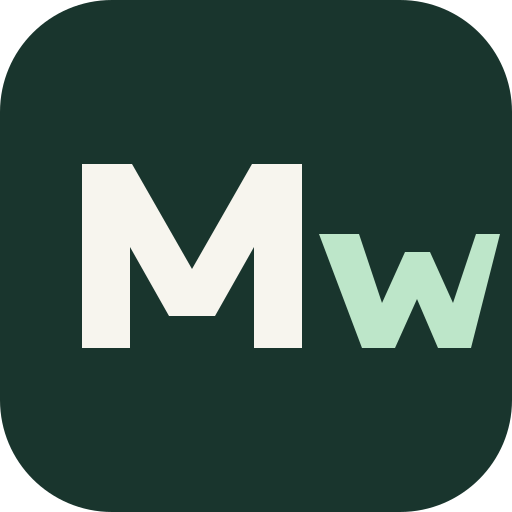
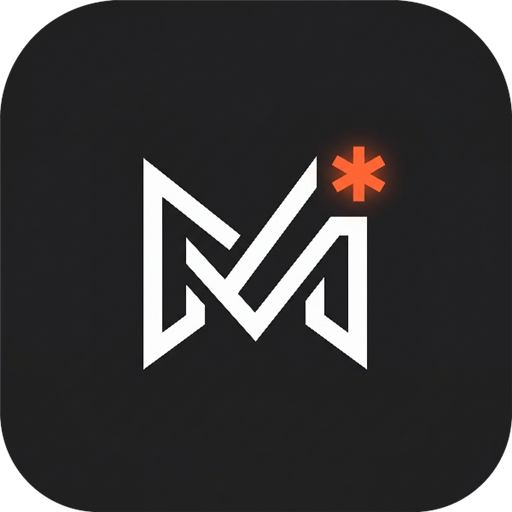
feat: Monochrome pop theme (dark + light), MarkForge rebrand, v1.0.0
- token-based theme: grayscale canvas/panel/hover + rationed yellow accent
- light variant derived; links/badges use contrast-corrected accent tones
- folders default collapsed; folder icons neutral #8a8a86; flat surfaces
- renamed to MarkForge across layout/PWA/electron; icon.png resized to all targets
- version 1.0.0 + XYKS signature in sidebar footer
- fixed mojibake across sources; .vscode cSpell ignores yaml

diff --git a/app/globals.css b/app/globals.css
@@ -51,96 +51,112 @@
   --radius-xl: calc(var(--radius) * 1.35);
 }
 
+/*
+  Theme: "Monochrome pop"
+
+  Neutral grayscale with exactly one loud yellow accent. The yellow is
+  rationed - interactive elements, links, CTAs only - so that meeting it always
+  means something. Flat surfaces throughout: depth comes from one shade steps
+  between canvas and panels, never from shadows or glows.
+
+  Structure: the shadcn mappings below are declared once and read raw tokens;
+  only the raw values differ between light and dark. Dark values are the ones
+  the design brief specified verbatim; light is its derived sibling.
+*/
+:root {
+  /* --- shadcn mapping (theme-independent; reads whichever raw tokens are
+         in scope - light here, dark once .dark lands on <html>) ---------- */
+  --background: var(--bg-canvas);
+  --foreground: var(--text-primary);
+  --card: var(--bg-panel);
+  --card-foreground: var(--foreground);
+  --popover: var(--bg-panel);
+  --popover-foreground: var(--foreground);
+  --primary: var(--accent-fill);
+  --primary-foreground: var(--accent-on);
+  --secondary: var(--bg-hover);
+  --secondary-foreground: var(--text-primary);
+  --muted: var(--bg-hover);
+  --muted-foreground: var(--text-secondary);
+  --accent: var(--bg-hover);
+  --accent-foreground: var(--text-primary);
+  --destructive: oklch(.66 .19 25);
+  --border: var(--border-default);
+  --input: var(--border-default);
+  --ring: var(--accent-fill);
+  --radius: .625rem;
+  --sidebar: var(--bg-panel);
+  --sidebar-foreground: var(--foreground);
+  --sidebar-primary: var(--primary);
+  --sidebar-primary-foreground: var(--accent-on);
+  --sidebar-accent: var(--bg-hover);
+  --sidebar-accent-foreground: var(--foreground);
+  --sidebar-border: var(--border-default);
+  --sidebar-ring: var(--accent-fill);
+}
+
+/* --- light -------------------------------------------------------------- */
 :root {
   color-scheme: light;
-  --background: oklch(.975 .006 95);
-  --foreground: oklch(.225 .012 75);
-  --card: oklch(.995 .003 95);
-  --card-foreground: var(--foreground);
-  --popover: oklch(.995 .003 95);
-  --popover-foreground: var(--foreground);
-  --primary: oklch(.44 .09 154);
-  --primary-foreground: oklch(.99 .005 95);
-  --secondary: oklch(.935 .008 95);
-  --secondary-foreground: oklch(.3 .014 75);
-  --muted: oklch(.94 .006 95);
-  --muted-foreground: oklch(.51 .018 75);
-  --accent: oklch(.91 .025 145);
-  --accent-foreground: oklch(.27 .05 150);
-  --destructive: oklch(.58 .2 28);
-  --border: oklch(.885 .009 90);
-  --input: oklch(.885 .009 90);
-  --ring: oklch(.55 .09 154);
-  --radius: .625rem;
-  --sidebar: oklch(.955 .008 92);
-  --sidebar-foreground: var(--foreground);
-  --sidebar-primary: var(--primary);
-  --sidebar-primary-foreground: var(--primary-foreground);
-  --sidebar-accent: oklch(.91 .016 95);
-  --sidebar-accent-foreground: var(--foreground);
-  --sidebar-border: var(--border);
-  --sidebar-ring: var(--ring);
+  --bg-canvas: #fafaf8;
+  --bg-panel: #f1f1ee;
+  --bg-hover: #e7e7e3;
+  --border-default: #dcdcd7;
+  --text-primary: #1d1d1a;
+  --text-secondary: #54544e;
+  --text-muted: #84847c;
+  --text-disabled: #c4c4bc;
+  /* The same yellow reads too pale against white as text, so text-bearing
+     accents deepen one step while fills stay true to the brief. */
+  --accent-fill: #f0d84a;
+  --accent-on: #1d1d1a;
+  --accent-link: #857400;
+  --accent-link-underline: #b3a12c;
+  --accent-bg-muted: #f3ecb8;
+  --accent-badge-text: #7a6900;
+  --icon-neutral: #8a8a86;
 }
 
-.dark {
+/* --- dark (brief values, verbatim) --------------------------------------- */
+.dark,
+@media-prefers-dark {
   color-scheme: dark;
-  --background: oklch(.18 .008 110);
-  --foreground: oklch(.92 .008 95);
-  --card: oklch(.205 .009 110);
-  --card-foreground: var(--foreground);
-  --popover: oklch(.23 .01 110);
-  --popover-foreground: var(--foreground);
-  --primary: oklch(.68 .1 150);
-  --primary-foreground: oklch(.17 .02 150);
-  --secondary: oklch(.26 .01 110);
-  --secondary-foreground: var(--foreground);
-  --muted: oklch(.25 .009 110);
-  --muted-foreground: oklch(.67 .012 95);
-  --accent: oklch(.3 .035 150);
-  --accent-foreground: oklch(.9 .04 145);
-  --destructive: oklch(.66 .19 25);
-  --border: oklch(.32 .01 110);
-  --input: oklch(.32 .01 110);
-  --ring: oklch(.62 .09 150);
-  --sidebar: oklch(.195 .009 110);
-  --sidebar-foreground: var(--foreground);
-  --sidebar-primary: var(--primary);
-  --sidebar-primary-foreground: var(--primary-foreground);
-  --sidebar-accent: oklch(.26 .012 110);
-  --sidebar-accent-foreground: var(--foreground);
-  --sidebar-border: var(--border);
-  --sidebar-ring: var(--ring);
+  --bg-canvas: #111111;
+  --bg-panel: #1a1a1a;
+  --bg-hover: #232323;
+  --border-default: #2a2a2a;
+  --text-primary: #f2f2f0;
+  --text-secondary: #b8b8b4;
+  --text-muted: #7a7a76;
+  --text-disabled: #4a4a47;
+  --accent-fill: #f0d84a;
+  --accent-on: #111111;
+  --accent-link: #f0d84a;
+  --accent-link-underline: #d4be3a;
+  --accent-bg-muted: #3a3520;
+  --accent-badge-text: #f0d84a;
+  --icon-neutral: #8a8a86;
 }
 
+/* OS-level dark preference applies even before hydration adds the class. */
 @media (prefers-color-scheme: dark) {
   :root:not(.light) {
     color-scheme: dark;
-    --background: oklch(.18 .008 110);
-    --foreground: oklch(.92 .008 95);
-    --card: oklch(.205 .009 110);
-    --card-foreground: var(--foreground);
-    --popover: oklch(.23 .01 110);
-    --popover-foreground: var(--foreground);
-    --primary: oklch(.68 .1 150);
-    --primary-foreground: oklch(.17 .02 150);
-    --secondary: oklch(.26 .01 110);
-    --secondary-foreground: var(--foreground);
-    --muted: oklch(.25 .009 110);
-    --muted-foreground: oklch(.67 .012 95);
-    --accent: oklch(.3 .035 150);
-    --accent-foreground: oklch(.9 .04 145);
-    --destructive: oklch(.66 .19 25);
-    --border: oklch(.32 .01 110);
-    --input: oklch(.32 .01 110);
-    --ring: oklch(.62 .09 150);
-    --sidebar: oklch(.195 .009 110);
-    --sidebar-foreground: var(--foreground);
-    --sidebar-primary: var(--primary);
-    --sidebar-primary-foreground: var(--primary-foreground);
-    --sidebar-accent: oklch(.26 .012 110);
-    --sidebar-accent-foreground: var(--foreground);
-    --sidebar-border: var(--border);
-    --sidebar-ring: var(--ring);
+    --bg-canvas: #111111;
+    --bg-panel: #1a1a1a;
+    --bg-hover: #232323;
+    --border-default: #2a2a2a;
+    --text-primary: #f2f2f0;
+    --text-secondary: #b8b8b4;
+    --text-muted: #7a7a76;
+    --text-disabled: #4a4a47;
+    --accent-fill: #f0d84a;
+    --accent-on: #111111;
+    --accent-link: #f0d84a;
+    --accent-link-underline: #d4be3a;
+    --accent-bg-muted: #3a3520;
+    --accent-badge-text: #f0d84a;
+    --icon-neutral: #8a8a86;
   }
 }
 
@@ -202,6 +218,27 @@
 .prose :where(blockquote p:first-of-type)::before,
 .prose :where(blockquote p:last-of-type)::after { content: none; }
 
+/*
+  Links are the rationed yellow: accent fill, hover-tone underline. Applies to
+  rendered markdown and to the editor's live wikilinks alike.
+*/
+.prose :where(a) {
+  color: var(--accent-link);
+  text-decoration-color: var(--accent-link-underline);
+}
+.cm-wikilink {
+  color: var(--accent-link);
+  cursor: pointer;
+  text-decoration: underline;
+  text-decoration-color: var(--accent-link-underline);
+}
+
+/* Badges and tags: muted yellow field, accent text - loud but contained. */
+.mf-badge {
+  background: var(--accent-bg-muted);
+  color: var(--accent-badge-text);
+}
+
 .editor-content kbd { @apply rounded border bg-muted px-1.5 py-0.5 font-mono text-xs; }
 .context-link { @apply rounded-md px-2 py-1.5 text-xs text-muted-foreground hover:bg-muted hover:text-foreground; }
 .context-link.active { @apply bg-muted font-medium text-foreground; }
@@ -220,8 +257,7 @@ html, body, main, aside, article, header {
   overflow: hidden;
   border: 1px solid var(--border);
   border-radius: 999px;
-  background: var(--accent);
-  box-shadow: inset 0 1px 2px color-mix(in oklch, var(--foreground) 8%, transparent), 0 1px 2px color-mix(in oklch, var(--foreground) 8%, transparent);
+  background: var(--bg-hover);
   transition: background-color 220ms cubic-bezier(.2,.8,.2,1), border-color 220ms cubic-bezier(.2,.8,.2,1), transform 140ms ease-out;
   -webkit-tap-highlight-color: transparent;
 }
@@ -238,9 +274,8 @@ html, body, main, aside, article, header {
   border-radius: 50%;
   color: oklch(.42 .16 65);
   background: oklch(.9 .13 85);
-  box-shadow: 0 1px 5px oklch(.65 .13 75 / .35);
   transform: translateX(0) rotate(0deg);
-  transition: transform 280ms cubic-bezier(.34,1.32,.64,1), color 200ms ease-out, background-color 200ms ease-out, box-shadow 200ms ease-out;
+  transition: transform 280ms cubic-bezier(.34,1.32,.64,1), color 200ms ease-out, background-color 200ms ease-out;
 }
 .theme-switcher__sun, .theme-switcher__moon { position: absolute; width: .8rem; height: .8rem; transition: opacity 160ms ease-out, transform 240ms cubic-bezier(.2,.8,.2,1); }
 .theme-switcher__sun { opacity: 1; transform: rotate(0deg) scale(1); }
@@ -251,7 +286,7 @@ html, body, main, aside, article, header {
 .theme-switcher__stars i:nth-child(2) { left: .95rem; top: 1rem; opacity: .55; }
 .theme-switcher__stars i:nth-child(3) { left: 1.35rem; top: .38rem; opacity: .75; }
 .theme-switcher.is-night { background: var(--secondary); }
-.theme-switcher.is-night .theme-switcher__orb { color: oklch(.35 .04 260); background: oklch(.86 .03 260); box-shadow: 0 1px 6px oklch(.75 .08 260 / .22); transform: translateX(1.5rem) rotate(360deg); }
+.theme-switcher.is-night .theme-switcher__orb { color: oklch(.35 .04 260); background: oklch(.86 .03 260); transform: translateX(1.5rem) rotate(360deg); }
 .theme-switcher.is-night .theme-switcher__sun { opacity: 0; transform: rotate(90deg) scale(.4); }
 .theme-switcher.is-night .theme-switcher__moon { opacity: 1; transform: rotate(0deg) scale(1); }
 .theme-switcher.is-night .theme-switcher__stars { opacity: 1; transform: translateY(0); }

diff --git a/components/workspace/sidebar.tsx b/components/workspace/sidebar.tsx
@@ -20,6 +20,7 @@ import {
 } from 'lucide-react'
 import { toast } from 'sonner'
 import { FileTreeNode } from '@/lib/file-store'
+import { APP_SIGNATURE, APP_VERSION } from '@/lib/version'
 import type { OpenIntent } from '@/lib/tabs'
 import { cn } from '@/lib/utils'
 import { openHandlers } from './tab-gestures'
@@ -195,7 +196,7 @@ export function Sidebar({
   const toggleFolder = (path: string) => {
     setExpandedFolders((prev) => ({
       ...prev,
-      [path]: prev[path] === undefined ? false : !prev[path],
+      [path]: !prev[path],
     }))
   }
 
@@ -257,7 +258,7 @@ export function Sidebar({
   */
   const renderTree = (nodes: FileTreeNode[]) => {
     return nodes.map((node) => {
-      const isExpanded = expandedFolders[node.path] !== false // Default open
+      const isExpanded = expandedFolders[node.path] === true // Default collapsed
 
       if (node.isDir) {
         return (
@@ -288,7 +289,7 @@ export function Sidebar({
                     <ChevronRight className="size-3.5" />
                   )}
                 </span>
-                <span className={cn(ICON_BOX, 'text-amber-500/80')}>
+                <span className={cn(ICON_BOX, 'text-(--icon-neutral)')}>
                   {isExpanded ? <FolderOpen className="size-4" /> : <Folder className="size-4" />}
                 </span>
                 <span className="truncate">{node.name}</span>
@@ -480,7 +481,7 @@ export function Sidebar({
           <span className="flex size-7 shrink-0 items-center justify-center rounded-md bg-primary text-xs font-bold text-primary-foreground">
             M
           </span>
-          <span className="truncate text-sm font-semibold tracking-tight">Markdown Workspace</span>
+          <span className="truncate text-sm font-semibold tracking-tight">MarkForge</span>
         </div>
       </header>
 
@@ -591,6 +592,15 @@ export function Sidebar({
           <LogOut className="size-3.5 shrink-0" />
           <span>Sign out</span>
         </button>
+        <div
+          className="flex items-center justify-between px-2 pt-1 text-[10px] tracking-wide text-(--text-disabled)"
+          title="MarkForge"
+        >
+          <span>
+            MarkForge v{APP_VERSION}
+          </span>
+          <span>Ã‚Â© {APP_SIGNATURE}</span>
+        </div>
       </div>
       </aside>
     </>

diff --git a/app/layout.tsx b/app/layout.tsx
@@ -12,14 +12,16 @@ const geist = Geist({ subsets: ['latin'], variable: '--font-geist' })
 const lora = Lora({ subsets: ['latin'], variable: '--font-lora' })
 
 export const metadata: Metadata = {
-  title: 'Morrow — Markdown Workspace',
+  title: 'MarkForge',
   description: 'A focused workspace for connected Markdown notes and documents.',
   generator: 'v0.app',
   manifest: '/manifest.webmanifest',
-  applicationName: 'Morrow',
+  icons: { icon: '/icon-192.png', apple: '/apple-icon.png' },
+  applicationName: 'MarkForge',
+  authors: [{ name: 'XYKS' }],
   appleWebApp: {
     capable: true,
-    title: 'Morrow',
+    title: 'MarkForge',
     statusBarStyle: 'default',
   },
 }
@@ -27,8 +29,8 @@ export const metadata: Metadata = {
 export const viewport: Viewport = {
   colorScheme: 'light dark',
   themeColor: [
-    { media: '(prefers-color-scheme: light)', color: '#f7f7f5' },
-    { media: '(prefers-color-scheme: dark)', color: '#181a18' },
+    { media: '(prefers-color-scheme: light)', color: '#111111' },
+    { media: '(prefers-color-scheme: dark)', color: '#111111' },
   ],
   userScalable: true,
 }

diff --git a/app/manifest.ts b/app/manifest.ts
@@ -2,14 +2,14 @@ import type { MetadataRoute } from 'next'
 
 export default function manifest(): MetadataRoute.Manifest {
   return {
-    name: 'Morrow — Markdown Workspace',
-    short_name: 'Morrow',
+    name: 'MarkForge',
+    short_name: 'MarkForge',
     description: 'A focused workspace for connected Markdown notes and documents.',
     start_url: '/',
     scope: '/',
     display: 'standalone',
-    background_color: '#f7f7f5',
-    theme_color: '#f7f7f5',
+    background_color: '#111111',
+    theme_color: '#111111',
     icons: [
       {
         src: '/icon-192.png',

diff --git a/lib/version.ts b/lib/version.ts
@@ -1,0 +1,10 @@
+/**
+ * Single source for the version shown in the UI.
+ *
+ * Kept in lockstep with package.json by hand - one string here beats a build
+ * step that reads JSON at import time for the two places it is displayed.
+ */
+export const APP_VERSION = '1.0.0'
+
+/** The maker's mark, shown beside the version. */
+export const APP_SIGNATURE = 'XYKS'

diff --git a/openspec/changes/add-cloud-sync/proposal.md b/openspec/changes/add-cloud-sync/proposal.md
@@ -1,0 +1,22 @@
+## Why
+
+The desktop is local-first by design: imports never leave the machine. The user wants cloud publishing to be an explicit, separate action rather than a side effect - so notes stay private until deliberately synced.
+
+## What Changes
+
+- Add a "Sync to cloud…" action (desktop shell only) that copies local documents to the configured R2 bucket on demand: one-way push first (`fs -> r2`), reusing the exact copy rules of `scripts/sync-storage.ts` (create-only, index rebuilt on the destination).
+- Electron main reads R2 credentials from the repo `.env` itself for this action only; the workspace server stays filesystem-backed.
+- Progress + result surfaced as toasts; no automatic/background syncing in v1.
+
+## Capabilities
+
+### New Capabilities
+- `cloud-sync`: An explicit desktop action uploads selected-or-all local documents to R2 without changing what the editor reads locally; failures are reported per-file and never block local work.
+
+### Modified Capabilities
+
+## Impact
+
+- `electron/main.cjs`: new IPC handler running the copy loop (reuses Bucket implementations already in the codebase).
+- Sidebar: one button behind the existing `isDesktop` gate.
+- No changes to API routes, storage backends, or the deployed web app.
